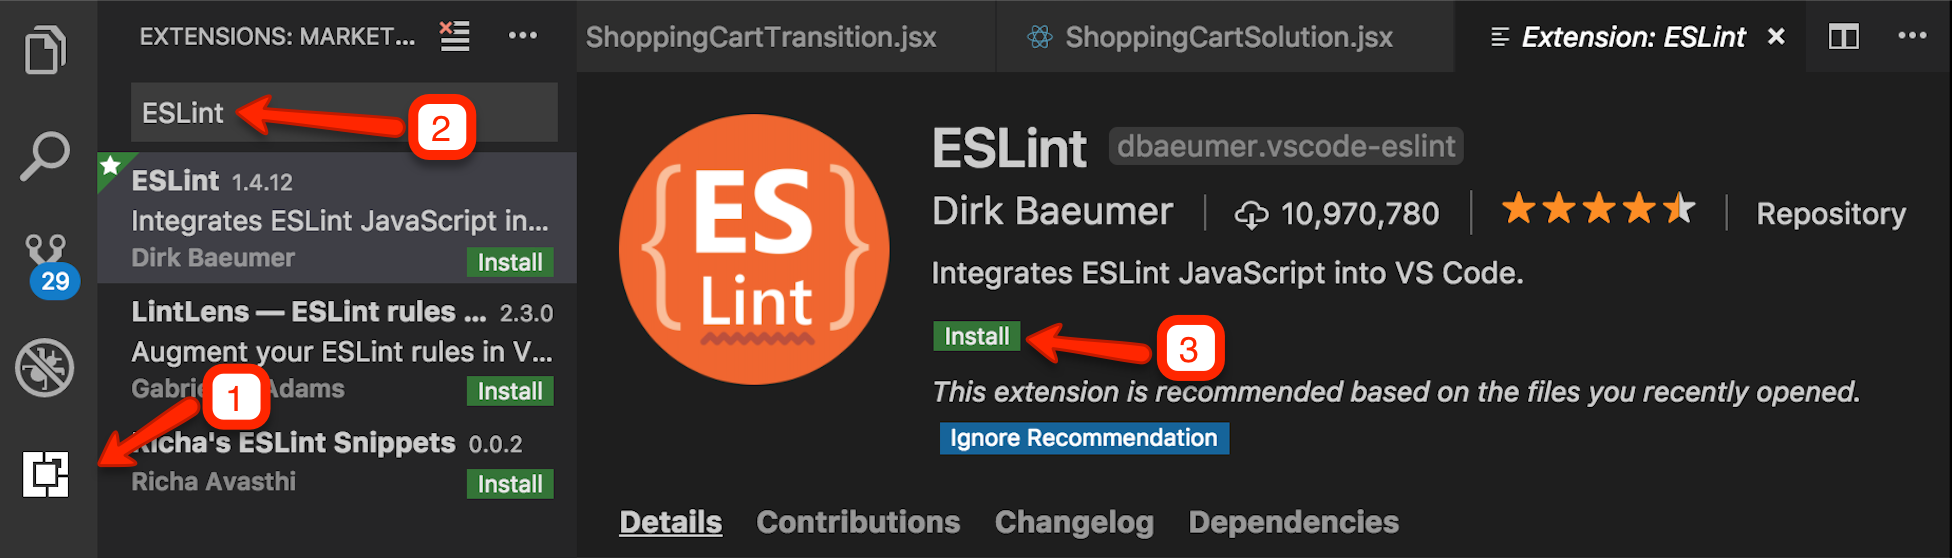
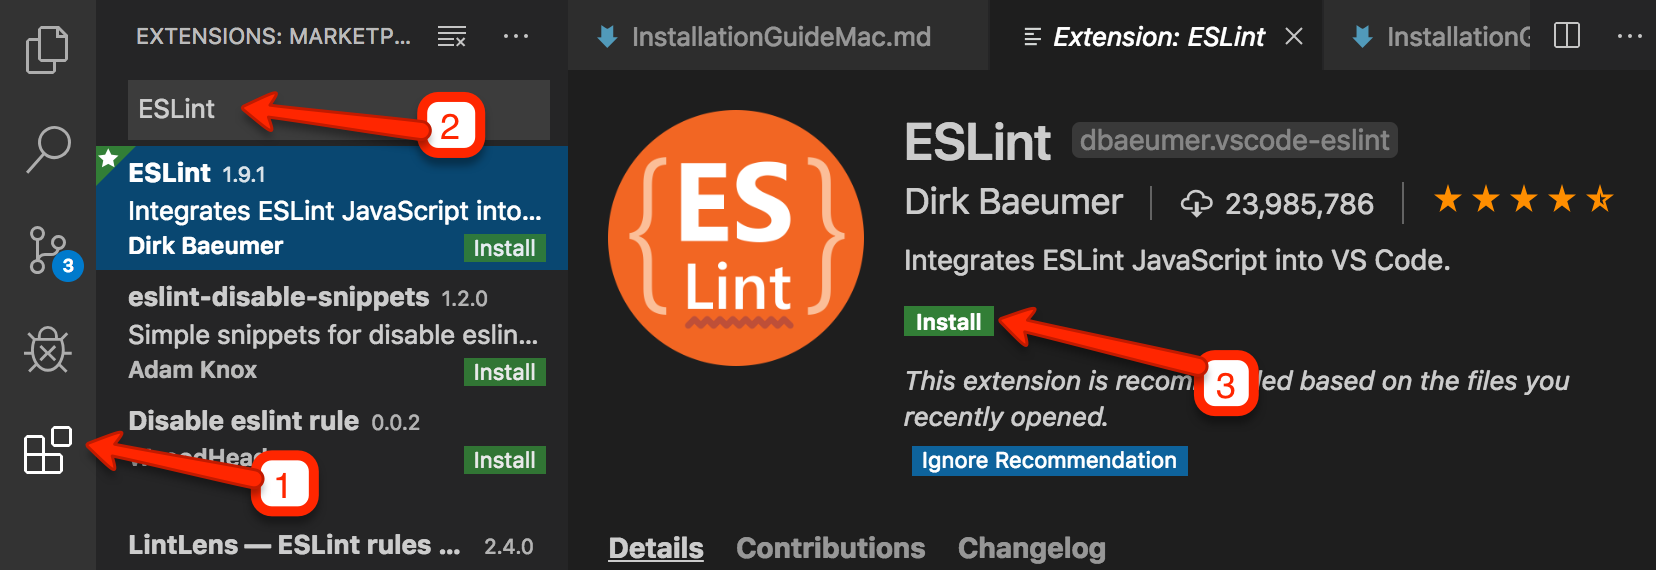
Updated installation guides

diff --git a/docs/InstallationGuideMac.md b/docs/InstallationGuideMac.md
@@ -40,7 +40,7 @@ export PATH="/usr/local/bin:$PATH"
 
 Git is version control software. It is used for sharing code, combining team members' code and managing different versions of your code.
 
-If you are not sure whether you have it installed, type `git --version` in your terminal. If you see output like this - _git version 2.22.0_ - then congratulations! You already have git installed and you can skip ahead to the next section.
+If you are not sure whether you have it installed, type `git --version` in your terminal. If you see output like this - _git version 2.23.0_ - then congratulations! You already have git installed and you can skip ahead to the next section.
 
 To install git, type this in your terminal:
 
@@ -54,7 +54,7 @@ When it's finished, type `git --version` to confirm that it has installed.
 
 Node.js is a JavaScript runtime engine. Basically, it allows you to run JavaScript programs outside of the browser.
 
-You will need to have the latest current version of Node installed as of August 2019 (12.7.0). If you already have Node.js installed, type `node -v`. If you do not have the latest version, see https://flaviocopes.com/how-to-update-node/ for instructions on how to upgrade.
+You will need to have the latest _Current_ version of Node installed as of September 2019 (12.10). If you already have Node.js installed, type `node -v`. If you do not have the latest version, see https://flaviocopes.com/how-to-update-node/ for instructions on how to upgrade.
 
 You should also update NPM. You can update it with:
 
@@ -98,19 +98,32 @@ You should configure your computer so that you can open Visual Studio Code via t
 
 ![](install-screens/vscode-mac-path.png)
 
+### Configuring Git to Open in Visual Studio Code
+
+You should have a terminal open in the bottom panel of the screen like this. (If you do not, press `control+ ~` to open it).
+
+![Mac Terminal](install-screens/terminal-mac.png)
+
+Click on it and enter the following:
+
+```bash
+git config --global core.editor "code --wait"
+git config --global -e
+```
+
+Restart Visual Studio Code.
+
 ### ESLint Extension
 
 Open the Extensions tab on the left, search for _ESLint_ and install _ESLint_.
 
 ![](install-screens/vscode-eslint.png)
 
-Once its installed, click on _Reload_.
-
-![](install-screens/vscode-eslint-reload.png)
+Once its installed, the _Install_ button may have transformed into a  _Reload_ button. If you see _Reload_, click on it.
 
 ### Quokka.js
 
-[Quokka.js](https://quokkajs.com/docs/?editor=vsc) is a sandbox that lets you play with JavaScript inside Visual Studio Code and other popular code editors. Search for _Quokka_ in the Extensions tab on the left and install _Quokka.js_. Once its installed, click on _Reload_.
+[Quokka.js](https://quokkajs.com/docs/?editor=vsc) is a sandbox that lets you play with JavaScript inside Visual Studio Code and other popular code editors. Search for _Quokka_ in the Extensions tab on the left and install _Quokka.js_. Once its installed, click on _Reload_ if necessary.
 
 If Quokka prompts you to go Pro, select _'Community' features only_.
 
@@ -118,23 +131,21 @@ If Quokka prompts you to go Pro, select _'Community' features only_.
 
 ### Prettier Extension (Optional)
 
-Prettier automatically formats your code and you can configure it to format your code whenever you save a file. Installing this is optional for now but we will require it for the final project.
+Prettier automatically formats your code and you can configure it to format your code whenever you save a file. Using this is optional for now but we will require it for our final group project.
 
-If you would like to use prettier, search for _Prettier_ in the Extensions tab on the left and install _Prettier - Code formatter_. Once its installed, click on _Reload_.
+If you would like to use prettier, search for _Prettier_ in the Extensions tab on the left and install _Prettier - Code formatter_. Once its installed, click on _Reload_ if necessary.
 
-You can now adjust Visual Studio's settings so that it will format on save and will play nicely with Prettier's defaults. Press `command+,` and click on the `{}` icon in the top right.
+You can now adjust Visual Studio's settings so that it will format on save and will play nicely with Prettier's defaults. Press `command+shift+p,` search for _settings_ and click on _Preferences: Open Settings (JSON))_.
 
-![](install-screens/settings-icon.png)
+![](install-screens/settings-search.png)
 
-In the right-hand panel underneath where it says "USER SETTINGS", append the options to the list and then save. Do not overwrite any settings that you already have.
+Paste the following into the JSON file. Do not overwrite any settings that you already have.
 
 ```json
   "editor.formatOnSave": true,
   "editor.insertSpaces": true,
   "editor.tabSize": 2,
 ```
-
-![](install-screens/prettier-settings.png)
 
 ## Chrome or Firefox (Recommended)
 

diff --git a/docs/InstallationGuideWindows.md b/docs/InstallationGuideWindows.md
@@ -44,13 +44,13 @@ If you intalled Visual Studio code, select _Use Visual Studio Code as Git's defa
 
 To avoid unnecessary merge conflicts (believe me, merge conflicts are very frustrating), please make sure _Checkout Windows-style, commit Unix-style line endings_ is selected.
 
-When you finish installing, you should see Git Bash on your computer. Open it, type `git --version` to confirm that it works. You should see something like _git version 2.22.0_. Then close out of Git Bash.
+When you finish installing, you should see Git Bash on your computer. Open it, type `git --version` to confirm that it works. You should see something like _git version 2.23.0_. Then close out of Git Bash.
 
 ## Node.js and NPM Packages
 
 Node.js is a JavaScript runtime engine. Basically, it allows you to run JavaScript programs outside of the browser.
 
-You will need to have the latest current version of Node installed as of August 2019 (12.7.0). If you already have Node.js installed, type `node -v` in Git Bash. If you do not have the latest version, you will need to remove Node.js and reinstall it again.
+You will need to have the latest _Current_ version of Node installed as of September 2019 (12.10). If you already have Node.js installed, type `node -v` in Git Bash. If you do not have the latest version, you will need to remove Node.js and reinstall it again.
 
 If Node.js is up-to-date, you should update NPM. You can update it with:
 
@@ -58,7 +58,7 @@ If Node.js is up-to-date, you should update NPM. You can update it with:
 npm install -g npm@latest
 ```
 
-To install Node.js, go to https://nodejs.org/en/ and click on the _12.7.0 Current_ version.
+To install Node.js, go to https://nodejs.org/en/ and click on the _12.10.X Current_ version.
 
 When it finishes downloading, open the downloaded file. Accept the License Agreement and all of the defaults. If you are asked to allow the app to make changes to your device, click on _Yes_.
 
@@ -94,13 +94,11 @@ Open the Extensions tab on the left, search for _ESLint_ and install _ESLint_.
 
 ![](install-screens/vscode-eslint.png)
 
-Once its installed, click on _Reload_.
-
-![](install-screens/vscode-eslint-reload.png)
+Once its installed, the _Install_ button may have transformed into a  _Reload_ button. If you see _Reload_, click on it.
 
 ### Quokka.js
 
-[Quokka.js](https://quokkajs.com/docs/?editor=vsc) is a sandbox that lets you play with JavaScript inside Visual Studio Code and other popular code editors. Search for _Quokka_ in the Extensions tab on the left and install _Quokka.js_. Once its installed, click on _Reload_.
+[Quokka.js](https://quokkajs.com/docs/?editor=vsc) is a sandbox that lets you play with JavaScript inside Visual Studio Code and other popular code editors. Search for _Quokka_ in the Extensions tab on the left and install _Quokka.js_. Once its installed, click on _Reload_ if necessary.
 
 If Quokka prompts you to go Pro, select _'Community' features only_.
 
@@ -112,23 +110,21 @@ If you get this Windows Security Alert from Windows when running Quokka, make su
 
 ### Prettier Extension (Optional)
 
-Prettier automatically formats your code and you can configure it to format your code whenever you save a file. Installing this is optional for now but we will require it for the final project.
+Prettier automatically formats your code and you can configure it to format your code whenever you save a file. Using this is optional for now but we will require it for our final group project.
 
-If you would like to use prettier, search for _Prettier_ in the Extensions tab on the left and install _Prettier - Code formatter_. Once its installed, click on _Reload_.
+If you would like to use prettier, search for _Prettier_ in the Extensions tab on the left and install _Prettier - Code formatter_. Once its installed, click on _Reload_ if necessary.
 
-You can now adjust Visual Studio's settings so that it will format on save and will play nicely with Prettier's defaults. Press `ctrl+,` and click on the `{}` icon in the top right.
+You can now adjust Visual Studio's settings so that it will format on save and will play nicely with Prettier's defaults. Press `command+shift+p,` search for _settings_ and click on _Preferences: Open Settings (JSON))_.
 
-![](install-screens/settings-icon.png)
+![](install-screens/settings-search.png)
 
-In the right-hand panel underneath where it says "USER SETTINGS", append the options to the list and then save. Do not overwrite any settings that you already have.
+Paste the following into the JSON file. Do not overwrite any settings that you already have.
 
 ```json
   "editor.formatOnSave": true,
   "editor.insertSpaces": true,
   "editor.tabSize": 2,
 ```
-
-![](install-screens/prettier-settings.png)
 
 ## Chrome or Firefox (Recommended)
 
